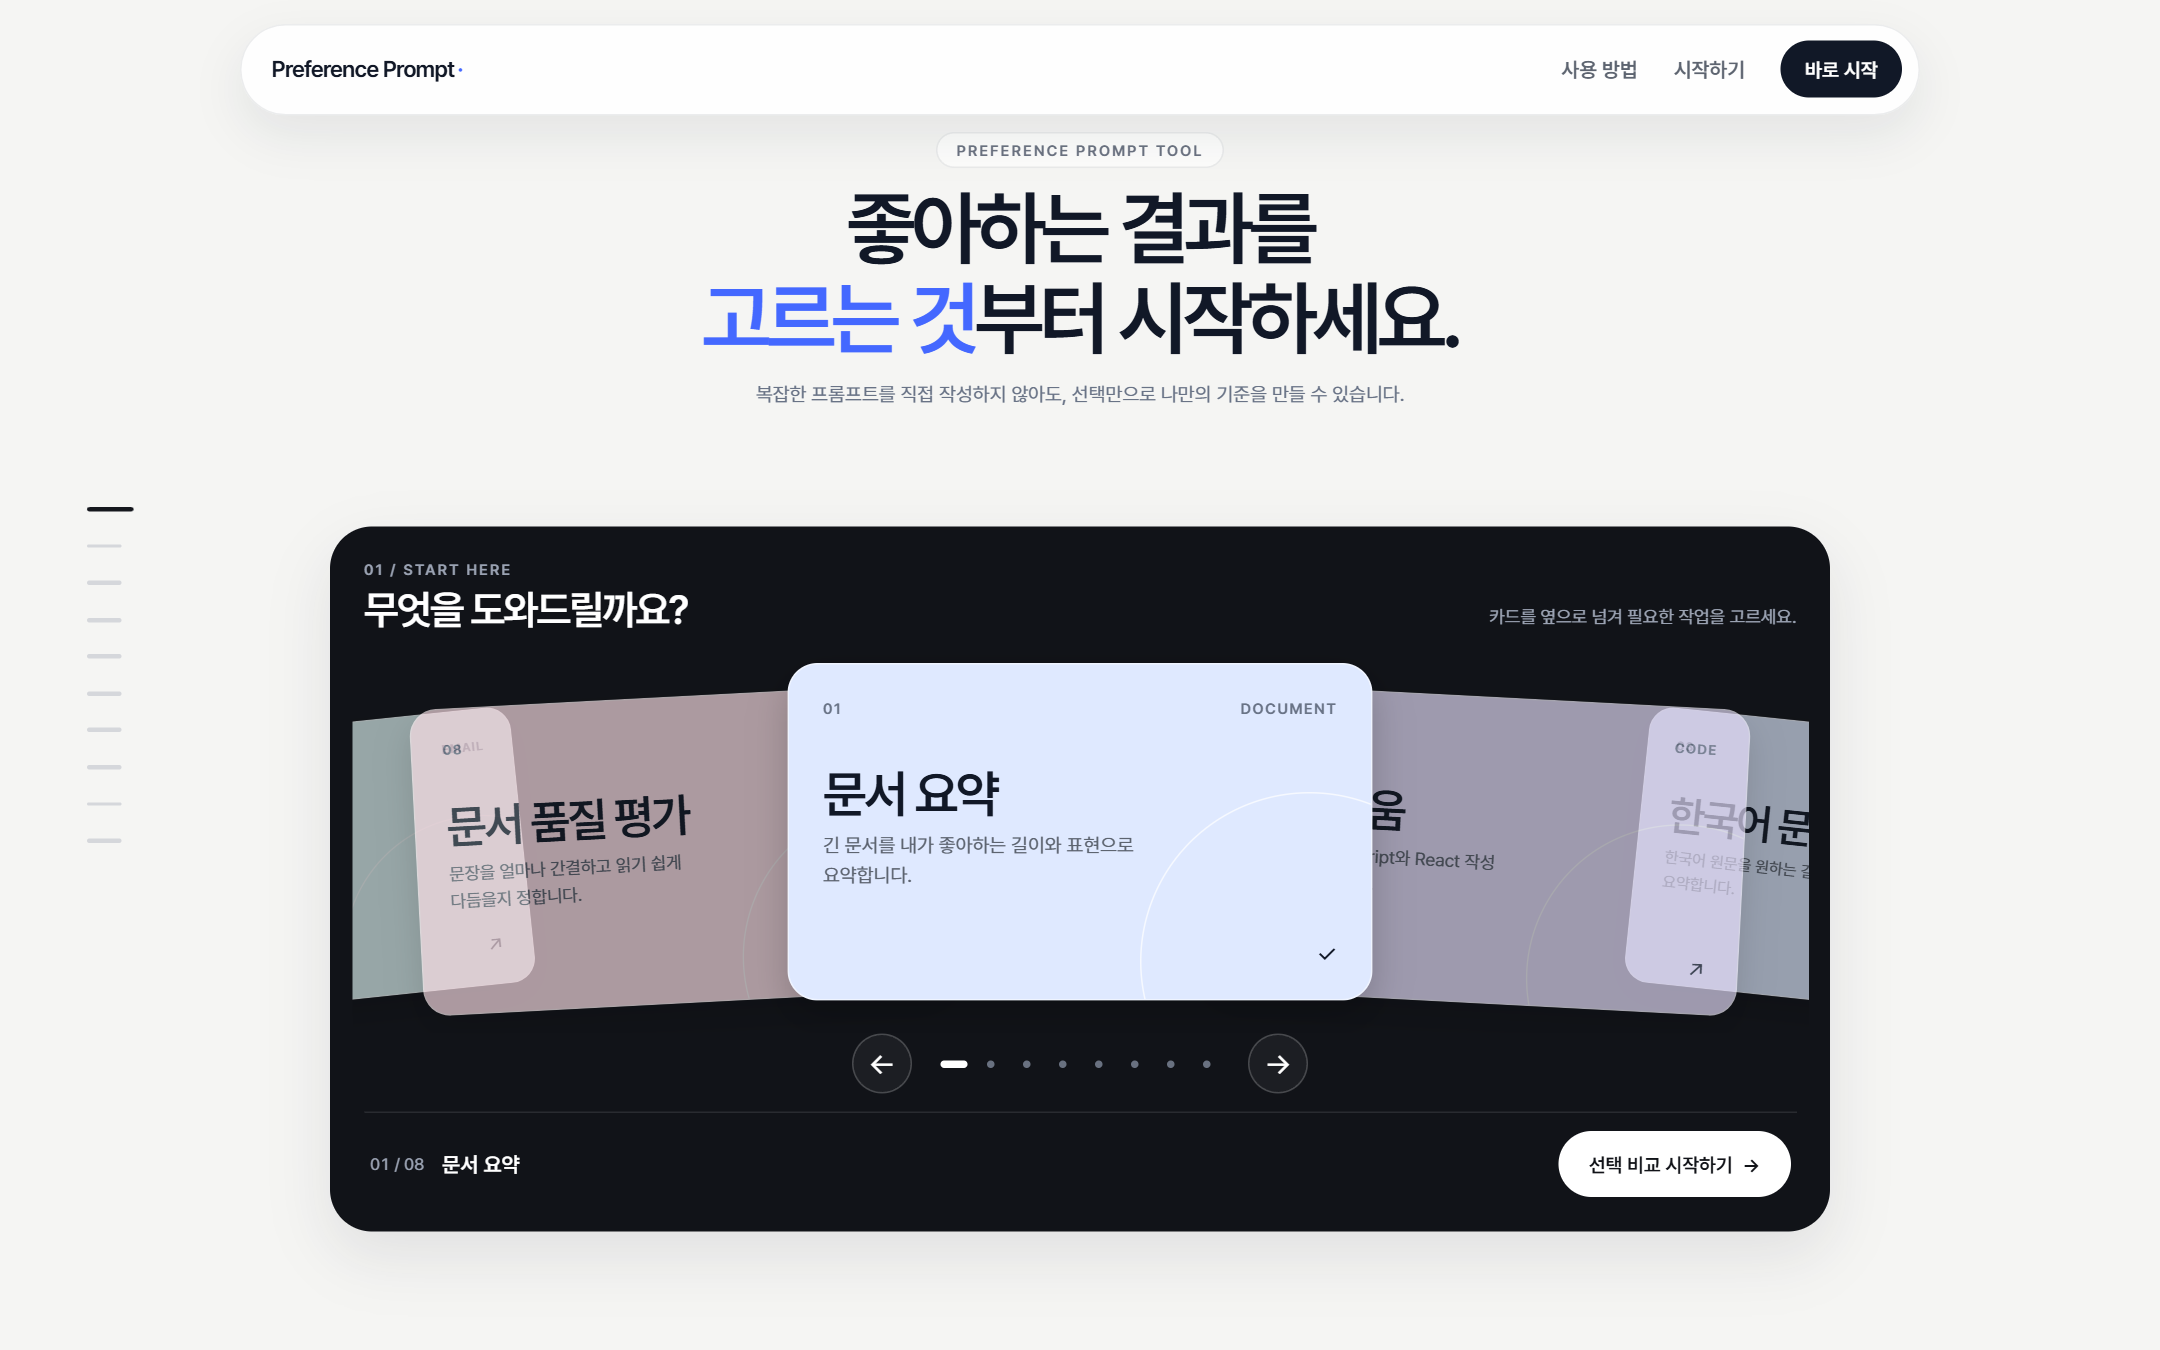
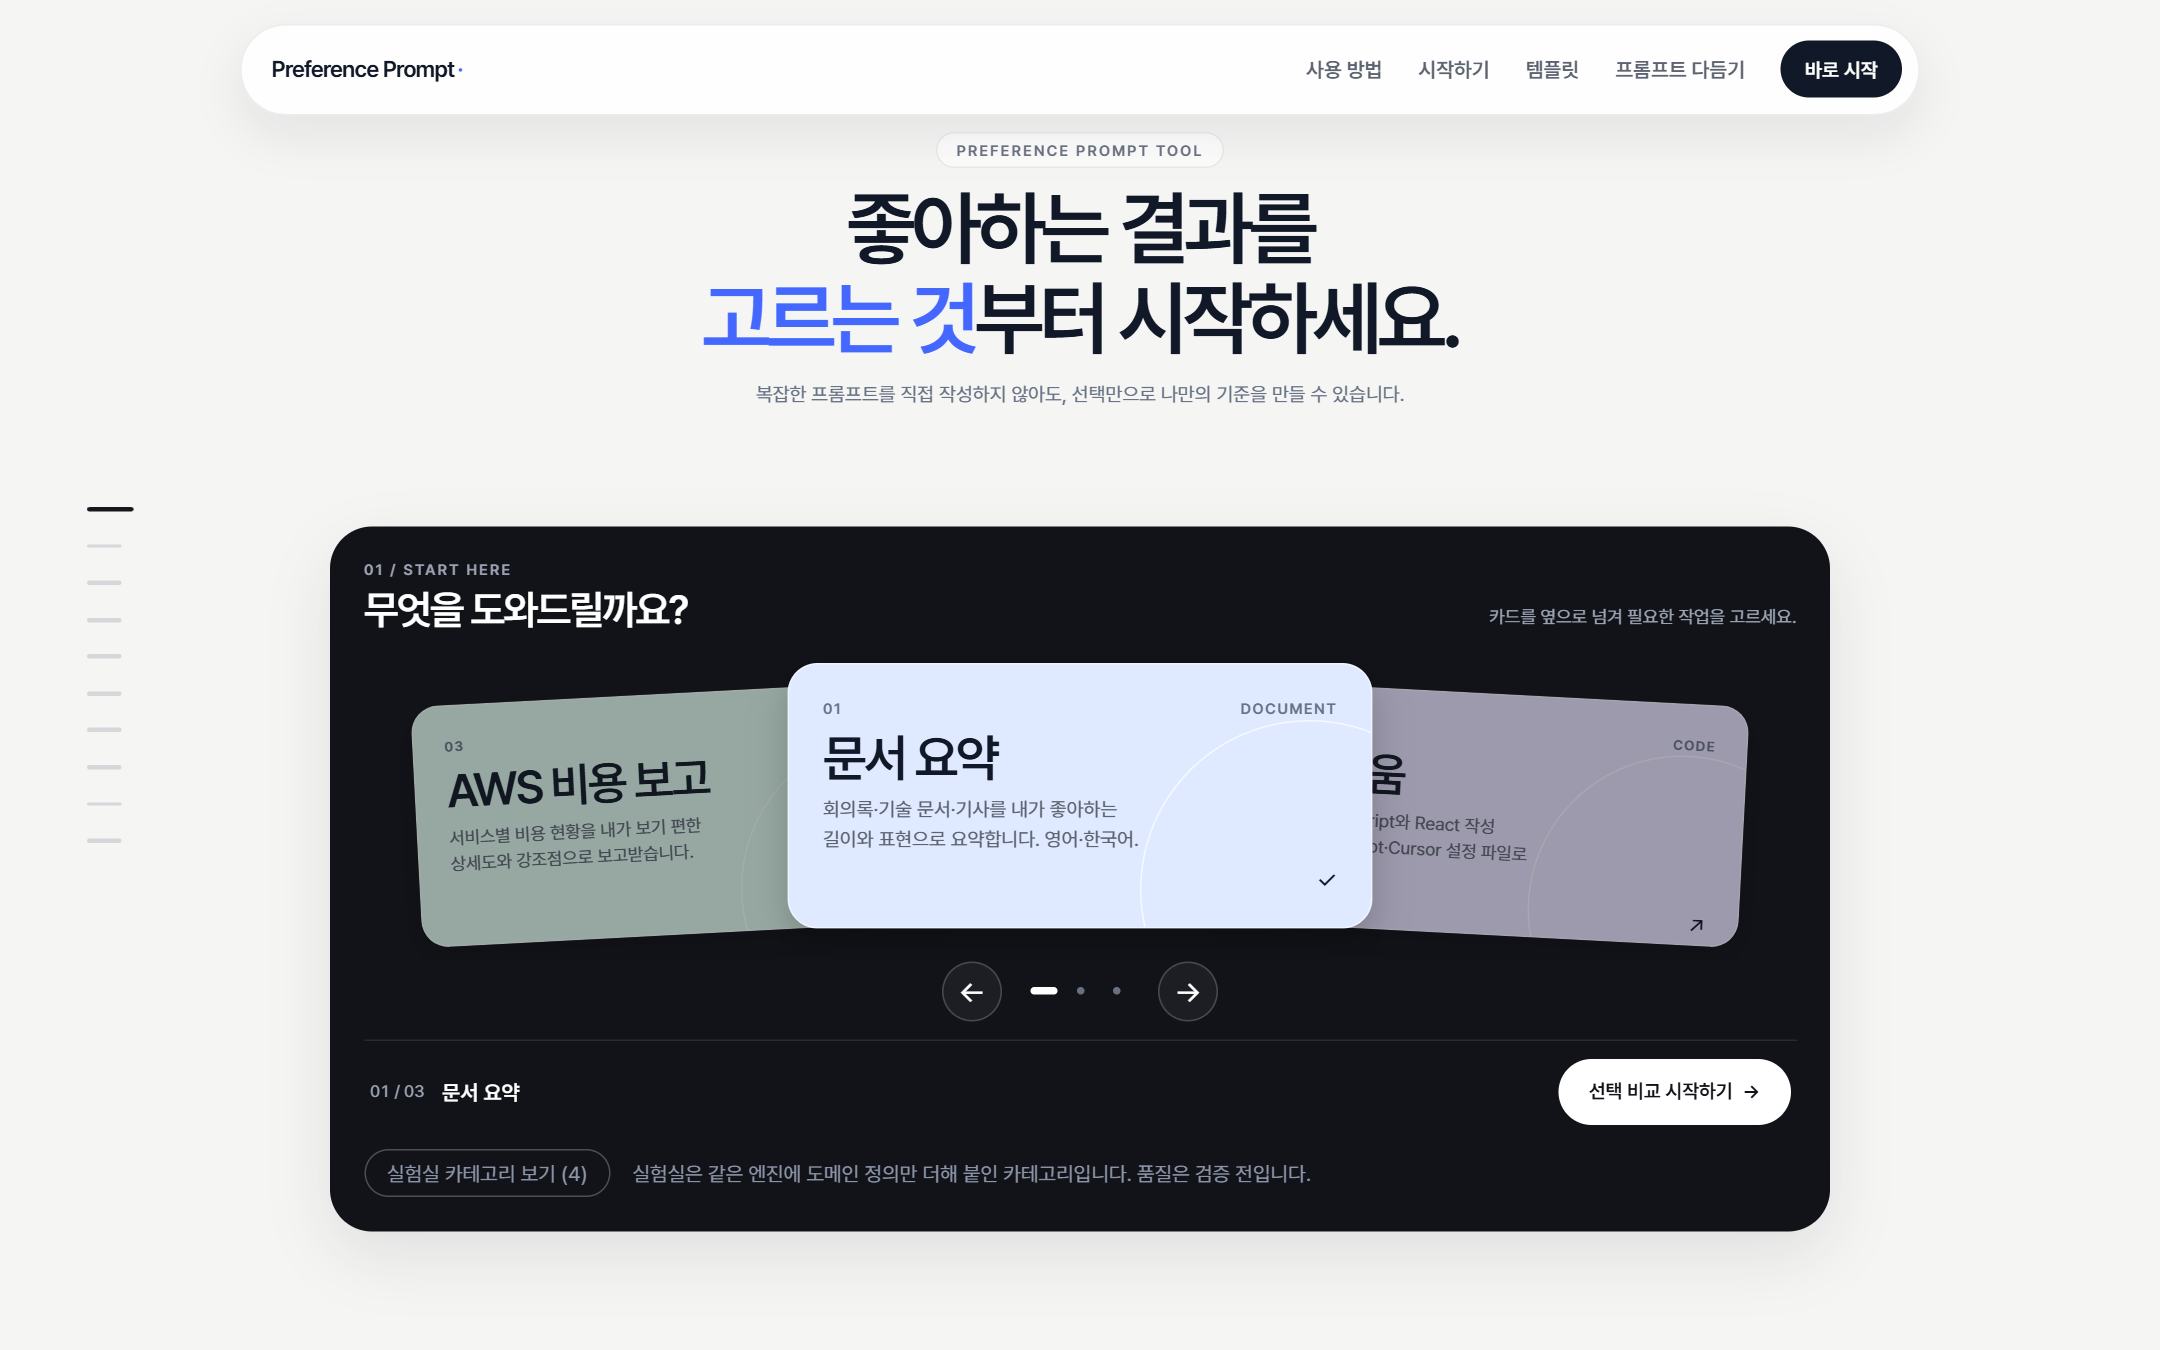
Update the README's recent changes and screenshots to the current app
The recent-changes list stopped at 9/27, and two screenshots showed the
eight-card deck and the old "AI로 프롬프트 다듬기" button. The list now
covers the core-three deck with a lab, tool exports, templates, team
prompts and the n=30 split experiment; the category, comparison and result
captures are retaken from the live app (gpt-4o-mini), and the template
library gets its own.

diff --git a/README.md b/README.md
@@ -27,6 +27,16 @@ API 키 없이도 무료 데모 모드로 전체 흐름을 돌려볼 수 있다.
 화면(`submission-final` 태그)이고, 아래의 React 화면과 이후 개선은 master 에서
 로컬로 실행한다 (아래 「웹 UI로 사용해보기」).
 
+**최근 변경 (2026-09-30)**
+- 앞 화면을 타깃("AI 를 매일 쓰는 작은 개발팀")에 맞춰 **핵심 3개 카테고리**(문서 요약 영·한 /
+  코딩 / AWS 비용 보고)로 정리하고, 나머지 4개는 "실험실"로 내렸다.
+- **바로 쓰기:** 만든 프롬프트를 ChatGPT·Claude·Gemini 에 복사하거나, 코딩이면 Copilot·Cursor·
+  AGENTS.md 파일로 내려받는다.
+- **템플릿:** 팀 작성 템플릿 9개를 그대로 쓰거나 "내 방식으로 바꾸기"로 개인화한다.
+- **팀 프롬프트:** 같은 팀 코드로 선택을 합쳐 팀 공통 프롬프트를 만들고, 갈린 축을 보여 준다.
+- **문서를 분리한 확대 실험 (n=30):** 선호를 배운 문서와 채점 문서를 나눠 다시 쟀다. 취향을
+  아는 지침과 독립 지표에서 동률이고, 일반 지침 대비 우위는 유의하지 않았다 (아래 2-3절).
+
 **최근 변경 (2026-09-27)**
 - React 화면 + API 서버(`api_server.py`)를 master 에 합쳤다. `PPT_LIVE=1` 로
   켜면 실제 모델로 후보를 만든다.
@@ -623,6 +633,8 @@ npm run dev
 
 모델은 서버가 정한다. 요청 본문에 `model` 을 보내도 무시한다 - 따르면
 누구든 비싼 모델 이름으로 서버 키를 쓸 수 있다.
+
+![템플릿 라이브러리 (React)](docs/screenshots/react-templates.png)
 
 **팀 프롬프트** (React 결과 화면, `team.py`): 팀원이 같은 팀 코드로 각자 비교를 마치고 더하면,
 모두의 비교를 한 추정기에 합친 팀 공통 프롬프트가 나온다. 축마다 사람들이 어떻게 갈렸는지
